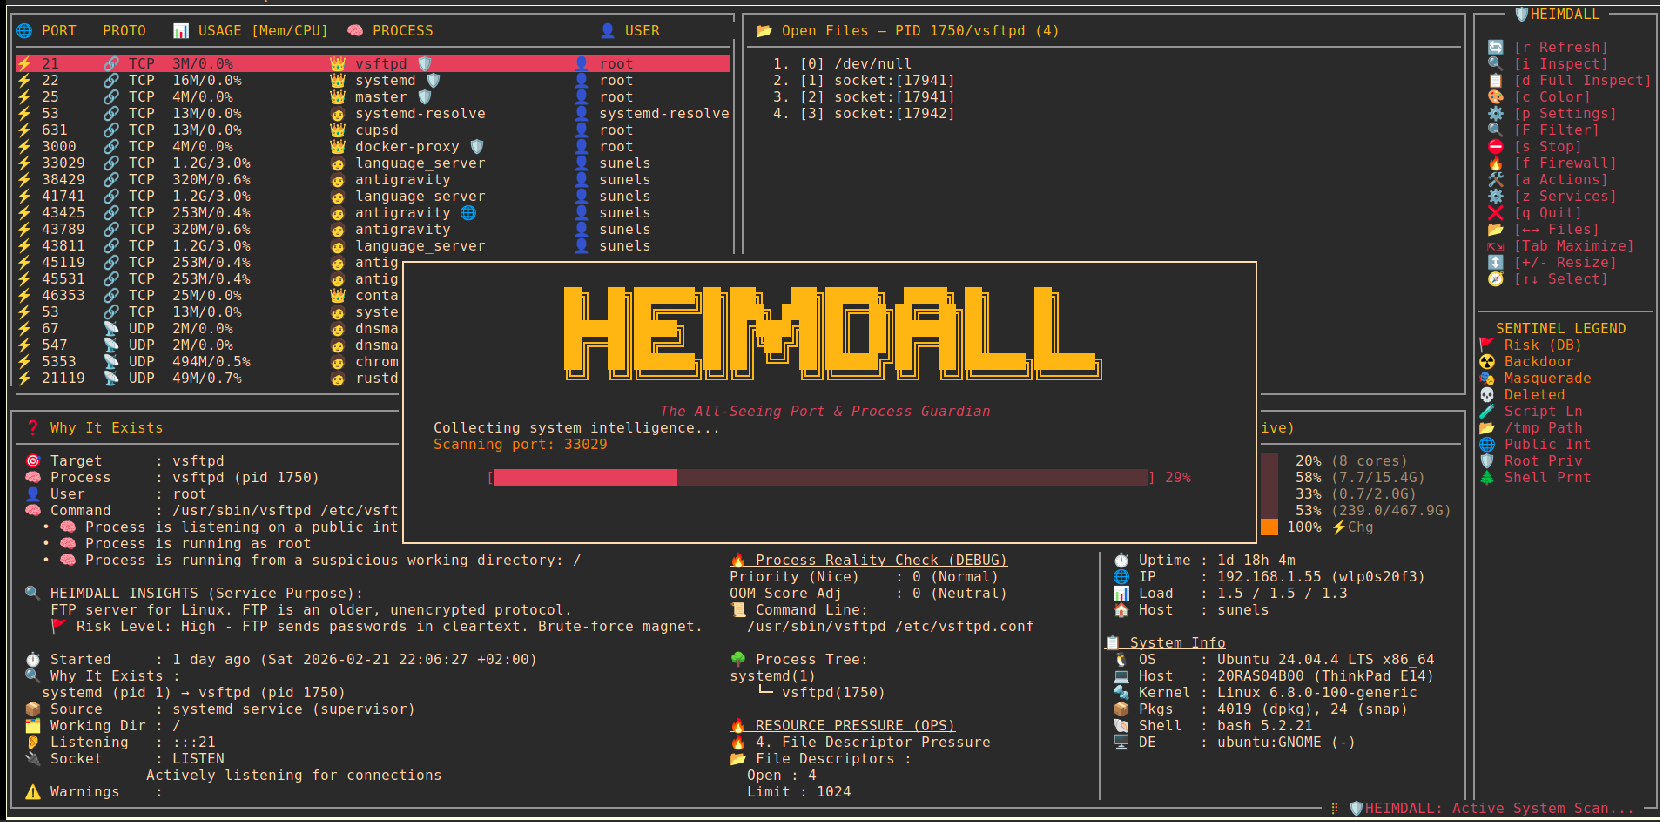
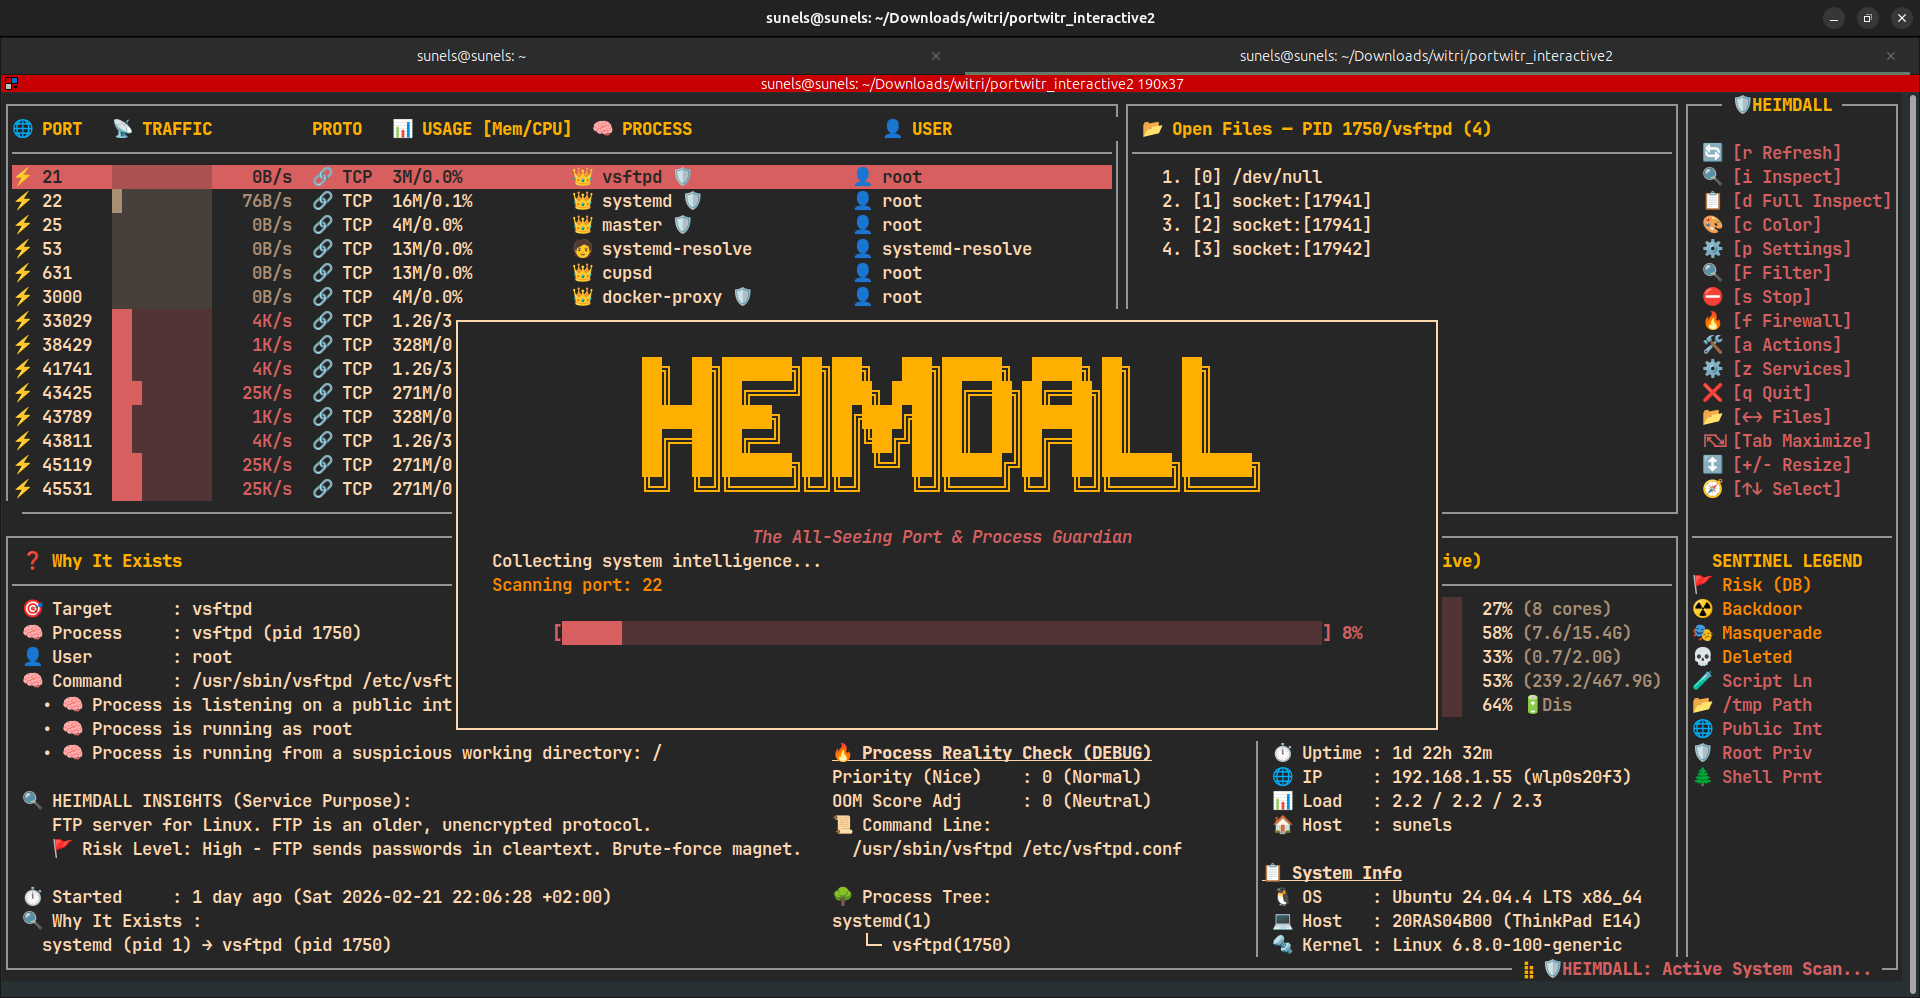
feat: real-time live traffic column w/ async polling and UI updates

Changed region(s): [[0.0, 0.0, 1.0, 1.0]]

diff --git a/heimdall/__init__.py b/heimdall/__init__.py
@@ -63,6 +63,108 @@ _script_managed_cache = {} # pid -> (is_managed: bool, timestamp: float)
 SC_MANAGED_TTL = 30.0
 TUI_PROTECTION_HANDLED = set() # (pid, create_time) -> Action Taken (timestamp)
 
+# ═══════════════════════════════════════════════════════════════
+# 📡 TRAFFIC POLLER — Background thread for per-port traffic
+# ═══════════════════════════════════════════════════════════════
+_traffic_lock = threading.Lock()
+_traffic_data = {}  # port(int) -> {"conns": int, "rx_queue": int, "tx_queue": int, "rate": float, "bytes_rate": float}
+_traffic_prev = {}  # previous snapshot for delta calculation
+TRAFFIC_POLL_INTERVAL = 5.0
+
+def _traffic_poller_thread():
+    """Background thread: polls per-pid network activity using /proc/pid/io every TRAFFIC_POLL_INTERVAL seconds."""
+    global _traffic_data, _traffic_prev
+    while True:
+        try:
+            now = time.time()
+            new_data = {}
+            active_pids = set()
+            
+            for proc in psutil.process_iter(['pid', 'io_counters']):
+                try:
+                    pid = str(proc.info['pid'])
+                    active_pids.add(pid)
+                    io = proc.info.get('io_counters')
+                    if io:
+                        # rchar + wchar represents socket and disk IO combined
+                        total_bytes = io.read_chars + io.write_chars
+                        prev = _traffic_prev.get(pid)
+                        rate = (total_bytes - prev) / TRAFFIC_POLL_INTERVAL if prev is not None else 0
+                        
+                        if rate > 0 or prev is not None:
+                            new_data[pid] = {
+                                "rate": max(0, rate),
+                                "activity": max(0, rate)
+                            }
+                        _traffic_prev[pid] = total_bytes
+                except:
+                    pass
+            
+            # Cleanup dead pids
+            dead_pids = [p for p in _traffic_prev if p not in active_pids]
+            for p in dead_pids:
+                _traffic_prev.pop(p, None)
+
+            with _traffic_lock:
+                _traffic_data = new_data
+
+            
+        except Exception as e:
+            debug_log(f"TRAFFIC_POLLER: Error: {e}")
+        
+        time.sleep(TRAFFIC_POLL_INTERVAL)
+
+def get_traffic_for_pid(pid):
+    """Thread-safe getter for traffic data of a specific pid."""
+    with _traffic_lock:
+        return _traffic_data.get(str(pid))
+
+def format_traffic_bar(traffic_info):
+    """Format traffic data as ASCII spark bar + rate text."""
+    if not traffic_info:
+        return "▒▒▒▒▒▒▒▒▒▒    0 B/s", 0  # no data, level 0
+    
+    rate = traffic_info.get("rate", 0)
+    
+    # Activity level mapping for 10-block system health style bar
+    if rate <= 0:
+        filled = 0
+    elif rate < 1024:
+        filled = 1
+    elif rate < 10240:
+        filled = 2
+    elif rate < 102400:
+        filled = 3
+    elif rate < 512000:
+        filled = 4
+    elif rate < 1048576:
+        filled = 5
+    elif rate < 5242880:
+        filled = 6
+    elif rate < 10485760:
+        filled = 7
+    elif rate < 52428800:
+        filled = 8
+    elif rate < 104857600:
+        filled = 9
+    else:
+        filled = 10
+    
+    bar = "█" * filled + "░" * (10 - filled)
+    
+    # Rate text
+    if rate >= 1024 * 1024:
+        rate_text = f"{rate/(1024*1024):.1f}M"
+    elif rate >= 1024:
+        rate_text = f"{rate/1024:.0f}K"
+    else:
+        rate_text = f"{rate:.0f}B"
+    
+    # Needs to fit in exactly 19 chars (bar=10 + space=1 + text=5 + /s=2)
+    display = f"{bar} {rate_text:>5s}/s"
+    return display, filled
+
+
 # System Health cache (refreshed every 5 seconds)
 _system_health_cache = None
 _system_health_ts = 0.0
@@ -4317,8 +4419,15 @@ def get_preformatted_table_row(row, cache, firewall_status, w):
     alert_icons = f"{managed_icon}{risk_flag}{sec_warn}"
     
     # Preformat with widths (adjust to table widths)
-    widths = [10, 8, 18, 28, w - 68]  # same as headers
-    data = [f"{fw_icon} {port}", proto.upper(), usage, f"{status_tag}{proc_icon} {prog}{alert_icons}", f"👤 {user}"]
+    # PORT(10) + TRAFFIC(20) + PROTO(8) + USAGE(18) + PROCESS(28) + USER(rest)
+    traffic_w = 20
+    widths = [10, traffic_w, 8, 18, 28, w - 68 - traffic_w]  # added TRAFFIC column
+    
+    # Get traffic data for this process
+    traffic_info = get_traffic_for_pid(pid)
+    traffic_display, traffic_level = format_traffic_bar(traffic_info)
+    
+    data = [f"{fw_icon} {port}", traffic_display, proto.upper(), usage, f"{status_tag}{proc_icon} {prog}{alert_icons}", f"👤 {user}"]
     
     def pad_visual(text, width):
         """Pad string accounting for double-width characters/emojis."""
@@ -4358,10 +4467,10 @@ def draw_table(win, rows, selected, offset, cache, firewall_status):
         pass
 
     # Header
-    headers = ["🌐 PORT", "PROTO", "📊 USAGE [Mem/CPU]", "  🧠 PROCESS", "   👤 USER"]
-    # Calculate widths dynamically to ensure right side is drawn
-    # Fixed widths for first columns, dynamic for USER
-    widths = [10, 8, 18, 28, max(10, w - 66)]
+    headers = ["🌐 PORT", "📡 TRAFFIC", "PROTO", "📊 USAGE [Mem/CPU]", "  🧠 PROCESS", "   👤 USER"]
+    # Calculate widths dynamically
+    traffic_w = 20
+    widths = [10, traffic_w, 8, 18, 28, max(10, w - 66 - traffic_w)]
     x = 1
     
     hdr_attr = curses.color_pair(CP_HEADER) | curses.A_BOLD
@@ -4400,13 +4509,42 @@ def draw_table(win, rows, selected, offset, cache, firewall_status):
         
         pre_row_str = get_preformatted_table_row(rows[idx], cache, firewall_status, w)
         
+        # Check for BLINK: high traffic + CRIT sentinel finding
+        blink = False
+        port_val = rows[idx][0]
+        pid_val = rows[idx][4]
+        traffic_info = get_traffic_for_pid(pid_val)
+        if traffic_info and traffic_info.get('activity', 0) > 1048576: # > 1MB/s
+            findings = _security_audit_cache.get(str(port_val), [])
+            if findings and any(f['level'] == 'CRITICAL' for f in findings):
+                blink = True
+        
+        if blink and not is_selected:
+            attr = attr | curses.A_BLINK
+        
         try:
-            # Write row content, ensuring it fits within borders
-            # Reduce max_len to w-4 to account for wide characters (emojis) taking up extra visual space
             max_len = max(1, w - 4)
             win.addstr(i+3, 1, pre_row_str[:max_len].ljust(max_len), attr)
             
-            # 🔧 REPAIR BORDERS: Force redraw vertical lines to fix any overflow damage
+            # 📡 Color the TRAFFIC column separately based on level
+            traffic_display, traffic_level = format_traffic_bar(traffic_info)
+            traffic_x = 11  # After PORT column (width 10 + 1 border)
+            if traffic_level >= 8:
+                t_color = curses.color_pair(CP_WARN) | curses.A_BOLD
+            elif traffic_level >= 4:
+                t_color = curses.color_pair(CP_WARN)
+            elif traffic_level >= 2:
+                t_color = curses.color_pair(CP_ACCENT)
+            else:
+                t_color = curses.color_pair(CP_TEXT) | curses.A_DIM
+            if is_selected:
+                t_color = curses.color_pair(CP_ACCENT) | curses.A_REVERSE
+            try:
+                win.addstr(i+3, traffic_x, traffic_display[:traffic_w], t_color)
+            except curses.error:
+                pass
+            
+            # 🔧 REPAIR BORDERS
             win.addch(i+3, 0, curses.ACS_VLINE, curses.color_pair(CP_BORDER))
             win.addch(i+3, w-1, curses.ACS_VLINE, curses.color_pair(CP_BORDER))
         except:
@@ -6345,6 +6483,11 @@ def main(stdscr, args=None):
     ipc_thread = threading.Thread(target=start_ipc_server, daemon=True)
     ipc_thread.start()
 
+    # Start Traffic Poller thread
+    traffic_thread = threading.Thread(target=_traffic_poller_thread, daemon=True)
+    traffic_thread.start()
+    debug_log("TRAFFIC_POLLER: Background thread started.")
+
     rows = parse_ss_cached()
     cache = {}
     firewall_status = {}
@@ -6397,10 +6540,16 @@ def main(stdscr, args=None):
             bar_w = 22
             main_w = w - bar_w
             
-            table_win = stdscr.derwin(table_h, main_w//2, 0, 0)
+            # Open Files pane widening based on feedback
+            of_w = min(60, max(45, main_w // 3))
+            if main_w < 100:
+                of_w = 35
+            table_w = main_w - of_w
+            
+            table_win = stdscr.derwin(table_h, table_w, 0, 0)
             draw_table(table_win, rows, selected, offset, cache, firewall_status)
 
-            open_files_win = stdscr.derwin(table_h, main_w - main_w//2, 0, main_w//2)
+            open_files_win = stdscr.derwin(table_h, of_w, 0, table_w)
             try: open_files_win.bkgd(' ', curses.color_pair(CP_TEXT))
             except: pass
             pid = rows[selected][4] if selected>=0 and selected < len(rows) else "-"

diff --git a/RELEASE_NOTES.md b/RELEASE_NOTES.md
@@ -1,0 +1,22 @@
+# 🚀 Heimdall v0.9.9: The Traffic Intelligence Update
+
+**This release introduces major real-time capabilities to Heimdall, bringing a powerful new Live Traffic column and deep structural layout improvements** — all while maintaining extreme performance with 0 blockings in the TUI!
+
+### ✨ What's New
+- **📡 Live Traffic Column (Background Polled):** 
+  - Real-time network activity (Read/Write Bytes) is now integrated directly into the main table as an ASCII spark bar (`███████░░░` / `3.2M/s`).
+  - **Tree-Aware I/O & UDP Tracking:** Uses deeper kernel I/O metrics (`/proc/pid/io`) alongside active connections to reliably track all activity — easily detecting heavy UDP tasks like high-res YouTube video streams, BitTorrent, and QUIC connections which often evaded traditional port-state polling.
+  - **Sentinel Integration:** If Heimdall Sentinel finds a CRITICAL risk factor and it matches very high traffic flow simultaneously, the table row will actively *blink* to immediately warn you!
+  - **Zero UI Blocking:** Powered by an intelligent background thread and a thread-safe caching system (`_traffic_poller_thread`). Your interactive inputs, scrolls, and animations remain instantly responsive.
+
+- **📊 Wider Intelligence Panels:** 
+  - Following user feedback, the *Open Files* panel has been dynamically widened and the overall horizontal real estate scaling has been perfected to give complete visibility to process paths, while fitting the newly injected 20-character Traffic column seamlessly.
+
+- **📸 Updated Visual Assets:** 
+  - `README.md` and `screenshots/` have been updated with the brand new UI look and documentation tags regarding the Live Traffic tracking.
+
+### 🐛 Under the Hood
+- Overhauled main grid dimensions for adaptive resizing without line cut-offs.
+- Improved resource cleanup for phantom threads and short-lived background sockets during auto-scanning.
+
+*Enjoy unparalleled visibility with Heimdall!* 🛡

diff --git a/README.md b/README.md
@@ -42,6 +42,9 @@
 - 🌳 **Precision Kill Tree**: Nuclear termination for script loops that protects your terminal.
 - 🛡 **Daemon Mode (Background)**: Non-interactive monitoring with automatic suspicious-outbound detection and mitigation.
 - 🛡 **Active TUI Protection**: Proactive security enforcement in the TUI when the daemon is inactive (auto-suspends suspicious processes).
+- 📡 **Live Traffic Column**: Real-time per-port network activity with ASCII spark bars (▁▂▃▄▅▆▇█), computed by a background thread (UI never blocks).
+  > **Not:** TRAFFIC sütunu gerçek zamanlı ağ aktivitesini gösterir (background thread ile hesaplanır, UI bloke olmaz).
+- 🖥 **System Health Panel**: Live CPU/RAM/Swap/Disk/Battery bars + OS/Kernel/Host/DE info in the detail view.
 - ⚖ **Process Priority (Renice)**: Detailed modal to change CPU priority with real-time feedback.
 - ☠ **OOM Score Adjustment**: Control which processes Linux sacrifices during RAM shortage.
 - ⏸ **Tree-Aware Pause/Continue**: Freezes both the process and its script loop parent.
